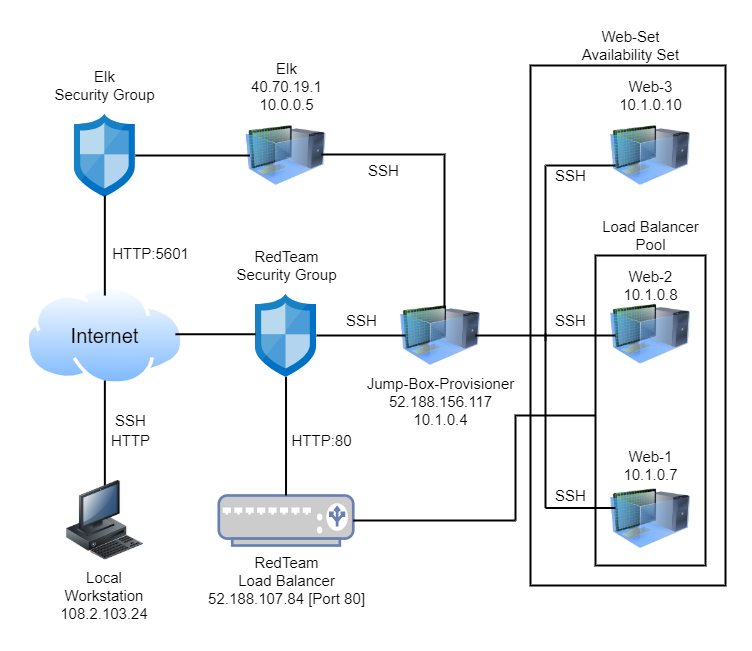
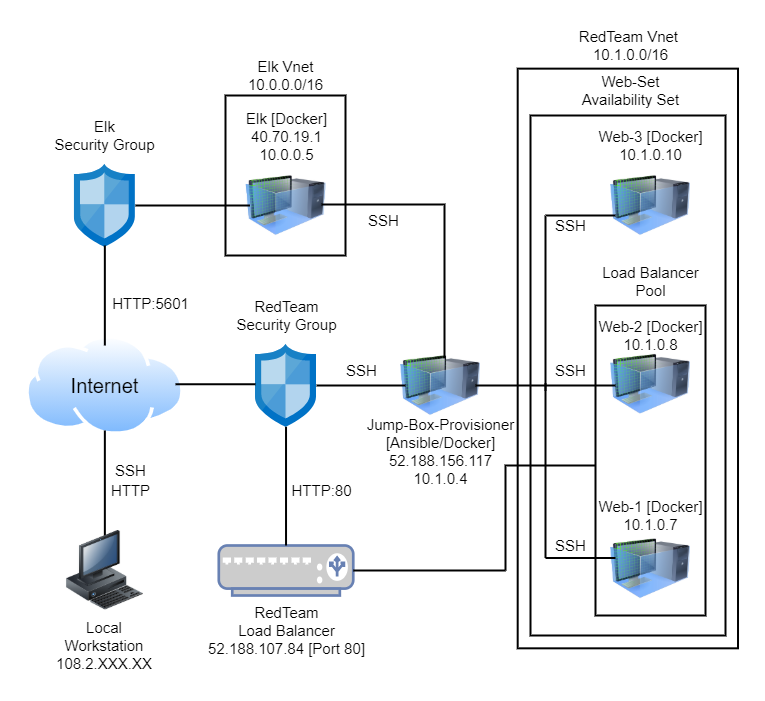
overall commit

Changed region(s): [[0.0306, 0.0307, 0.9787, 0.9524]]

diff --git a/README.md b/README.md
@@ -1,4 +1,5 @@
 # ELK_Stack_Project
+
 In this project I set up a cloud monitoring system by configuring an ELK stack server.
 
 ## Automated ELK Stack Deployment
@@ -56,88 +57,98 @@ This document contains the following details:
 The main purpose of this network is to expose a load-balanced and monitored instance of DVWA, the Damn Vulnerable Web Application.
 
 Load balancing ensures that the application will be highly available, in addition to restricting traffic to the network.
-- _What aspect of security do load balancers protect? A load balancer protects against Distributed Denial-of-Service (DDoS) attacks._
-- _What is the advantage of a jump box? Jump Servers have many advantages. The ability to create built-in identity and access managenment._
+- What aspect of security do load balancers protect? A load balancer protects against Distributed Denial-of-Service (DDoS) attacks.
+- What is the advantage of a jump box? A Jump Box controls access to other machines by allowing connections from specific IP addresses,then forwarding those connections to the repsective machines.
 
 Integrating an ELK server allows users to easily monitor the vulnerable VMs for changes to the logs and system traffic.
-- _What does Filebeat watch for? Filebeat watches and collects data about the file system._
-- _What does Metricbeat record? Metricbeat records and collects machine metrics._
+- What does Filebeat watch for? Filebeat watches and collects data about the file system.
+- What does Metricbeat record? Metricbeat records and collects operating machine metrics.
 
 The configuration details of each machine may be found below.
-_Note: Use the [Markdown Table Generator](http://www.tablesgenerator.com/markdown_tables) to add/remove values from the table._
+-Note: Use the [Markdown Table Generator](http://www.tablesgenerator.com/markdown_tables) to add/remove values from the table.
 
-| Name            | Function     | IP Address     | Operating System |
-|-----------------|--------------|----------------|------------------|
-| Jump-Box        | Gateway      | 52.188.156.117 | Linux            |
-| Web-1           | UbuntuServer | 10.1.0.7       | Linux            |
-| Web-2           | UbuntuServer | 10.1.0.8       | Linux            |
-| Web-3           | UbuntuServer | 10.1.0.10      | Linux            |  
-| Elk             | UbuntuServer | 10.0.0.5       | Linux            |
-| RT-LoadBalancer | LoadBalancer | 52.188.107.84  |                  |
+```
+| Name                        | Function     | IP Address     | Operating System |
+|-----------------------------|--------------|----------------|------------------|
+| Jump-Box-Provisioner        | Gateway      | 52.188.156.117 | Linux            |
+| Web-1                       | UbuntuServer | 10.1.0.7       | Linux            |
+| Web-2                       | UbuntuServer | 10.1.0.8       | Linux            |
+| Web-3                       | UbuntuServer | 10.1.0.10      | Linux            |  
+| Elk                         | UbuntuServer | 10.0.0.5       | Linux            |
+| RT-LoadBalancer             | LoadBalancer | 52.188.107.84  |                  |
+```
 
 ### Access Policies
 
 The machines on the internal network are not exposed to the public Internet. 
 
 Only the Jump-Box machine can accept connections from the Internet. Access to this machine is only allowed from the following IP addresses:
-- _108.2.103.24_
+- 108.2.XXX.XX/32
 
 Machines within the network can only be accessed by SSH.
-- _Which machine did you allow to access your ELK VM? Jump-Box-Provisioner._ 
-- _What was its IP address? 52.118.156.117_
+- Which machine did you allow to access your ELK VM? Jump-Box-Provisioner. 
+- What was its IP address? 52.118.156.117
 
 A summary of the access policies in place can be found in the table below.
 
-| Name                | Publicly Accessible | Allowed IP Addresses                 |
-|---------------------|---------------------|--------------------------------------|
-| Jump-Box-Provisoner | Yes                 | 10.1.0.7 10.1.0.8 10.1.0.10 10.0.0.5 |
-| Web-1               | No                  | 10.1.0.4                             |
-| Web-2               | No                  | 10.1.0.4                             |
-| Web-3               | No                  | 10.1.0.4                             |
-| ELK                 | No                  | 10.1.0.4                             |
+```
+| Name                 | Publicly Accessible | Allowed IP Addresses |
+|----------------------|---------------------|----------------------|
+| Jump-Box-Provisioner | Yes                 | 108.2.XXX.XX/32      |
+| Web-1                | No                  | 10.1.0.4             |
+| Web-2                | No                  | 10.1.0.4             |
+| Web-3                | No                  | 10.1.0.4             |
+| ELK                  | No                  | 10.1.0.4             |
+```
 
 ### Elk Configuration
 
-Ansible was used to automate configuration of the ELK machine. No configuration was performed manually, which is advantageous because...
-- _What is the main advantage of automating configuration with Ansible? The main advantage of automating with Ansible is you create consistent, high-scale reproducable results throughout multiple machine configurations._
+Ansible was used to automate configuration of the ELK machine. No configuration was performed manually.
+- What is the main advantage of automating configuration with Ansible? Automating with Ansible allows you create consistent, reproducable results throughout multiple machine configurations.
 
 The playbook implements the following tasks:
-- _Explain the steps of the ELK installation play. E.g., install Docker; download image; etc._
-    - Install docker.io
-    - Install python3.pip
-    - Install docker module
-    - Increase virtual memory
-    - Use more memory
-    - Download and lauch a docker elk container via specific ports
-       - 5601:5601
-       - 9200:9200
-       - 5044:5044
+- Explain the steps of the ELK installation play.
+   - Install docker.io
+   - Install python3.pip
+   - Install docker module
+   - Increase virtual memory
+   - Use more memory
+   - Download and lauch a docker elk container through published ports:
+      - 5601:5601
+      - 9200:9200
+      - 5044:5044
 
 The following screenshot displays the result of running `docker ps` after successfully configuring the ELK instance.
 
 ```
-| CONTAINER ID	| IMAGE                         | COMMAND | CREATED     | STATUS        | PORTS | NAMES                |
-|--------------	|-------------------------------|---------|-------------|---------------|-------|----------------------|
-| 5e95712e8e93	| cyberxsecurity/ansible:latest | "bash"  | 13 days ago | Up 40 minutes |       | intelligent_mccarthy |
+| CONTAINER ID | IMAGE        | COMMAND                | CREATED    | STATUS        | PORTS                                                                            | NAMES |
+|--------------|--------------|------------------------|------------|---------------|----------------------------------------------------------------------------------|-------|
+| db80733fc52b | sebp/elk:761 | "/usr/local/bin/star…" | 7 days ago | Up 11 minutes | 0.0.0.0:5044->5044/tcp, 0.0.0.0:5601->5601/tcp, 0.0.0.0:9200->9200/tcp, 9300/tcp | elk   |
 ```
 
-![Docker_Container](Screenshots/Docker_Container.png)
+![Docker_Container_ELK](Screenshots/Docker_Container_ELK.png)
 
 ### Target Machines & Beats
-_This ELK server is configured to monitor the following machines:_
-  - Web-1: 10.1.0.7
-  - Web-2: 10.1.0.8
-  - Web-3: 10.1.0.10
+This ELK server is configured to monitor the following machines:
+- Web-1: 10.1.0.7
+- Web-2: 10.1.0.8
+- Web-3: 10.1.0.10
+- ELK: 10.0.0.5
 
-_We have installed the following Beats on these machines:_
-  - Web-1: 10.1.0.7
-  - Web-2: 10.1.0.8
-  - Web-3: 10.1.0.10
+We have installed the following Beats on these machines:
+- Filebeat
+- Metricbeat
 
 These Beats allow us to collect the following information from each machine:
-- _In 1-2 sentences, explain what kind of data each beat collects, and provide 1 example of what you expect to see._
-    - Filebeat: Filebeat monitors the log files or locations that you specify. An example would be Kibana.
-    - Metricbeat: Metricbeat monitors the metrics and statistics of the system. An example would be Apache.
+- In 1-2 sentences, explain what kind of data each beat collects, and provide 1 example of what you expect to see.
+
+   - Filebeat: Filebeat monitors the log files or locations that you specify, such as syslogs visualized by Kibana below.
+
+      ![Filebeat_Kibana](Screenshots/Filebeat_Syslog.png)
+
+   - Metricbeat: Metricbeat monitors the metrics and statistics of the operating system, such as CPU usage visualized by Kibana below.
+
+      ![Metricbeat_Kibana](Screenshots/Metricbeat_System.png)
 
 ### Using the Playbook
 In order to use the playbook, you will need to have an Ansible control node already configured. Assuming you have such a control node provisioned: 
@@ -147,11 +158,18 @@ SSH into the control node and follow the steps below:
 - Update the config file to include remote users, host ip address, and published ports.  
 - Run the playbook, and navigate to the Kibana website to check that the installation worked as expected.
 
-_Answer the following questions to fill in the blanks:_
- - Which file is the playbook? .yml file
- - Where do you copy it? /etc/ansible
- - Which files do you update to make Ansible run the playbook on a specific machine? /etc/ansible/hosts and /etc/ansible/ansible.cfg 
- - How do I specify which machine to install the ELK server on versus which to install Filebeat on? Editing the /etc/ansible/hosts file with the approriate ip addresses.
- - Which URL do you navigate to in order to check that the ELK server is running? http://<pubic IP>/app/kibana#/home
+Answer the following questions to fill in the blanks:
+- Which file is the playbook? .yml file.
+- Where do you copy it? /etc/ansible, /etc/ansible/files, and /etc/ansible/roles depending on the .yml file.
+- Which files do you update to make Ansible run the playbook on a specific machine? /etc/ansible/hosts and /etc/ansible/ansible.cfg.
+- How do I specify which machine to install the ELK server on versus which to install Filebeat on? Editing the /etc/ansible/hosts file with the approriate IP addresses.
+- Which URL do you navigate to in order to check that the ELK server is running? http://<pubic IP>/app/kibana#/home.
 
-_As a **Bonus**, provide the specific commands the user will need to run to download the playbook, update the files, etc._
+As a Bonus, provide the specific commands the user will need to run to download the playbook, update the files, etc.
+- nano /etc/ansible/ansible.cfg
+- nano /etc/ansible/hosts
+- ansible all -m ping
+- nano <your-playbook.yml>
+- ansible-playbook <your-playbook.yml>
+- ssh ansible@<your IP>
+- curl <localhost>/setup.php
